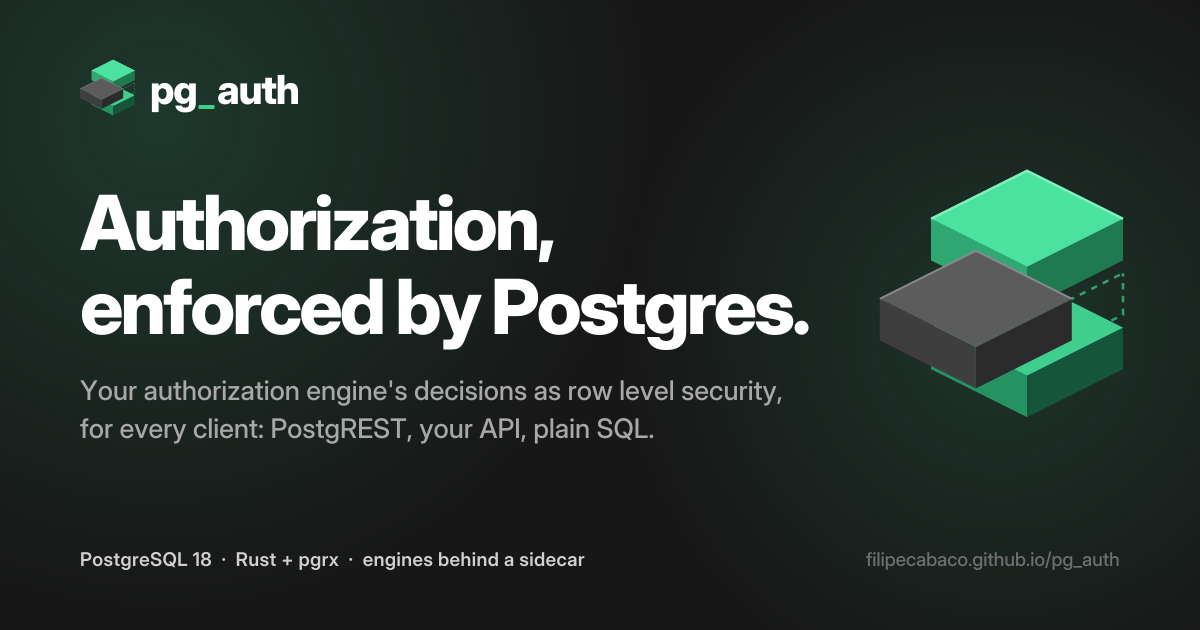
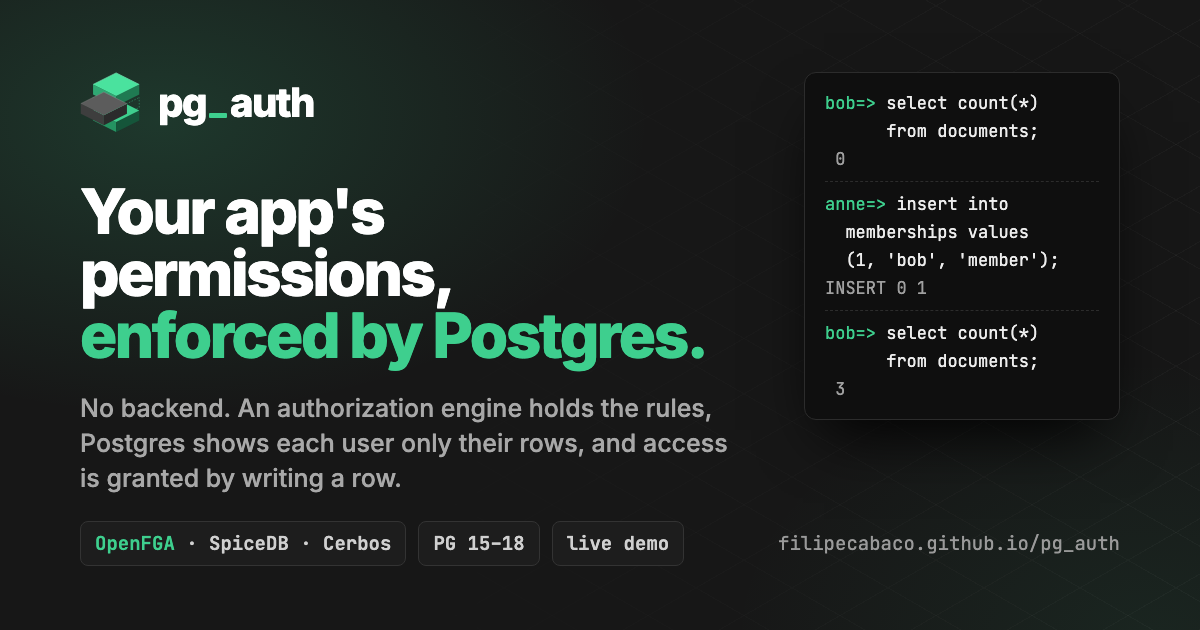
Social card in pg_redis's layout; the rules each engine reads, in the demo
- docs/assets/og.png re-rendered from scripts/og.html (mise run og): the
  headline, Anne and Bob's three steps, the engines; the image URL carries
  ?v=2 so unfurlers fetch the new one; site description and title updated
- the hero has a collapsed 'The rules, as <engine> reads them': the OpenFGA
  model, SpiceDB schema or Cerbos policy the demo loads, in the engine's own
  language, following the engine switcher; it says rules you already have
  work as they are, apart from OpenFGA conditions and SpiceDB caveats

diff --git a/scripts/og.html b/scripts/og.html
@@ -1,0 +1,104 @@
+<!doctype html>
+<!-- Source for docs/assets/og.png, the 1200x630 social card, in pg_redis's layout. Re-render with
+     `mise run og` after editing; the PNG is what link unfurlers fetch. -->
+<html>
+<head>
+<meta charset="utf-8">
+<link rel="preconnect" href="https://fonts.googleapis.com">
+<link href="https://fonts.googleapis.com/css2?family=Inter:wght@400;500;700;800&family=JetBrains+Mono:wght@400;600&display=block" rel="stylesheet">
+<style>
+  * { box-sizing: border-box; margin: 0; }
+  html, body { width: 1200px; height: 630px; }
+  body {
+    font-family: Inter, "Helvetica Neue", Arial, sans-serif;
+    color: #ededed;
+    background:
+      radial-gradient(700px 420px at 160px 120px, #3ecf8e2e, transparent 70%),
+      radial-gradient(600px 400px at 1150px 640px, #3ecf8e14, transparent 70%),
+      #171717;
+    position: relative;
+    overflow: hidden;
+  }
+  /* faint isometric grid, as on pg_redis's card */
+  body::before {
+    content: "";
+    position: absolute; inset: 0;
+    background-image:
+      repeating-linear-gradient(30deg, #ffffff07 0 1px, transparent 1px 48px),
+      repeating-linear-gradient(-30deg, #ffffff07 0 1px, transparent 1px 48px);
+    mask-image: linear-gradient(90deg, transparent 35%, #000 100%);
+  }
+  .card { position: absolute; inset: 72px 80px 64px; display: flex; flex-direction: column; }
+  .brand { display: flex; align-items: center; gap: 18px; }
+  .brand svg { width: 60px; height: 61px; }
+  .word { font-weight: 800; font-size: 40px; letter-spacing: -1.5px; color: #fff; }
+  .word i { display: inline-block; width: 18px; height: 5px; background: #3ecf8e; border-radius: 1px; margin: 0 3px -1px; font-style: normal; }
+  h1 {
+    margin-top: 48px;
+    font-size: 62px; line-height: 1; font-weight: 800; letter-spacing: -2.4px; color: #fff; max-width: 680px;
+  }
+  h1 span { color: #3ecf8e; }
+  p.lede { margin-top: 24px; font-size: 25px; line-height: 1.4; color: #a8a8a8; max-width: 660px; font-weight: 500; }
+  .foot { margin-top: auto; display: flex; align-items: center; gap: 12px; }
+  .chip {
+    font: 600 19px "JetBrains Mono", ui-monospace, monospace;
+    color: #d0d0d0; padding: 9px 14px; border: 1px solid #333; border-radius: 8px; background: #1d1d1d;
+  }
+  .chip b { color: #3ecf8e; font-weight: 600; }
+  .url { margin-left: auto; font: 400 19px "JetBrains Mono", ui-monospace, monospace; color: #9a9a9a; }
+
+  .term {
+    position: absolute; right: 80px; top: 72px; width: 316px;
+    font: 400 17px/1.65 "JetBrains Mono", ui-monospace, monospace;
+    font-variant-ligatures: none;
+    background: #0f0f0f; border: 1px solid #2c2c2c; border-radius: 12px; padding: 16px 20px;
+    box-shadow: 0 30px 60px -20px #000;
+  }
+  .term .sep { border-top: 1px dashed #2c2c2c; margin: 8px 0; }
+  .term .p { color: #3ecf8e; } .term .o { color: #a0a0a0; }
+</style>
+</head>
+<body>
+  <div class="term">
+    <div><span class="p">bob=&gt;</span> select count(*)</div>
+    <div>&nbsp;&nbsp;&nbsp;&nbsp;&nbsp;&nbsp;from documents;</div>
+    <div class="o">&nbsp;0</div>
+    <div class="sep"></div>
+    <div><span class="p">anne=&gt;</span> insert into</div>
+    <div>&nbsp;&nbsp;memberships values</div>
+    <div>&nbsp;&nbsp;(1, 'bob', 'member');</div>
+    <div class="o">INSERT 0 1</div>
+    <div class="sep"></div>
+    <div><span class="p">bob=&gt;</span> select count(*)</div>
+    <div>&nbsp;&nbsp;&nbsp;&nbsp;&nbsp;&nbsp;from documents;</div>
+    <div class="o">&nbsp;3</div>
+  </div>
+  <div class="card">
+    <div class="brand">
+      <svg viewBox="-34 191 156 158" aria-hidden="true">
+        <path d="M0 291 L60 321 L60 347 L0 317 Z" fill="#249361"/>
+        <path d="M60 321 L120 291 L120 317 L60 347 Z" fill="#15553A"/>
+        <path d="M0 291 L60 261 L120 291 L60 321 Z" fill="#3ECF8E"/>
+        <path d="M0 223 L60 253 L60 279 L0 249 Z" fill="#2FA873"/>
+        <path d="M60 253 L120 223 L120 249 L60 279 Z" fill="#1F7A52"/>
+        <path d="M0 223 L60 193 L120 223 L60 253 Z" fill="#4AE29E"/>
+        <path d="M0 223 L60 193 L120 223" fill="none" stroke="#7DF0BC" stroke-width="1.6" stroke-linejoin="round"/>
+        <path d="M0 257 L60 287 L120 257 M0 257 L0 283 L60 313 L120 283 L120 257" fill="none" stroke="#3ECF8E" stroke-opacity="0.7" stroke-width="1.6" stroke-dasharray="4 4" stroke-linejoin="round"/>
+        <path d="M-32 273 L28 303 L28 329 L-32 299 Z" fill="#3E3E3E"/>
+        <path d="M28 303 L88 273 L88 299 L28 329 Z" fill="#2B2B2B"/>
+        <path d="M-32 273 L28 243 L88 273 L28 303 Z" fill="#5C5C5C"/>
+        <path d="M-32 273 L28 243 L88 273" fill="none" stroke="#8A8A8A" stroke-width="1.2" stroke-linejoin="round"/>
+      </svg>
+      <span class="word">pg<i></i>auth</span>
+    </div>
+    <h1>Your app's permissions,<br><span>enforced by Postgres.</span></h1>
+    <p class="lede">No backend. An authorization engine holds the rules, Postgres shows each user only their rows, and access is granted by writing a row.</p>
+    <div class="foot">
+      <span class="chip"><b>OpenFGA</b> · SpiceDB · Cerbos</span>
+      <span class="chip">PG 15–18</span>
+      <span class="chip">live demo</span>
+      <span class="url">filipecabaco.github.io/pg_auth</span>
+    </div>
+  </div>
+</body>
+</html>

diff --git a/overrides/home.html b/overrides/home.html
@@ -32,6 +32,64 @@
           them. Anne is the admin of org 1, which owns three documents. Bob is in no org yet.</p>
         <p data-for="attributes">The rule: everyone reads published documents and their own drafts, and only the owner
           edits. Anne owns three documents, one of them published.</p>
+        {#- The rules each engine reads, exactly as docker/demo loads them (models/model.fga,
+            models/schema.zed, cerbos/document.yaml): change them there and here together -#}
+        <details class="pa-rules">
+          <summary>The rules, as <span data-engine-name>OpenFGA</span> reads them</summary>
+          <p>Written in the engine's own language; pg_auth does not translate them. Rules you already
+            have work as they are, apart from OpenFGA conditions and SpiceDB caveats: those need context
+            pg_auth does not send yet, so they deny.</p>
+<pre data-engine-show="openfga"><code>model
+  schema 1.1
+type user
+type org
+  relations
+    define admin: [user]
+    define member: [user]
+    define can_manage: admin
+    define can_read: member or admin
+type document
+  relations
+    define org: [org]
+    define shared_with: [user]
+    define viewer: shared_with or can_read from org
+    define editor: can_manage from org</code></pre>
+<pre data-engine-show="spicedb"><code>definition user {}
+
+definition org {
+    relation admin: user
+    relation member: user
+    permission can_manage = admin
+    permission can_read = member + admin
+}
+
+definition document {
+    relation org: org
+    relation shared_with: user
+    permission viewer = shared_with + org-&gt;can_read
+    permission editor = org-&gt;can_manage
+}</code></pre>
+<pre data-engine-show="cerbos"><code>apiVersion: api.cerbos.dev/v1
+resourcePolicy:
+  version: default
+  resource: document
+  rules:
+    - actions: ["read"]
+      effect: EFFECT_ALLOW
+      roles: ["authenticated"]
+      condition:
+        match:
+          any:
+            of:
+              - expr: request.resource.attr.owner == request.principal.id
+              - expr: request.resource.attr.status == "published"
+    - actions: ["update"]
+      effect: EFFECT_ALLOW
+      roles: ["authenticated"]
+      condition:
+        match:
+          expr: request.resource.attr.owner == request.principal.id</code></pre>
+        </details>
       </div>
       <div class="pa-actions">
         <button type="button" class="pa-btn pa-btn--primary" data-boot>

diff --git a/docs/stylesheets/home.css b/docs/stylesheets/home.css
@@ -1034,3 +1034,57 @@
     white-space: normal;
   }
 }
+
+/* The rules each engine reads, collapsed under the plain-words version; only the selected
+   engine's are shown */
+.pa-rules {
+  margin: 0 0 0.6rem;
+}
+
+.pa-rules summary {
+  display: block;
+  font-size: 0.66rem;
+  font-weight: 600;
+  color: #d0d0d0;
+  cursor: pointer;
+  list-style: none;
+}
+
+.pa-rules summary::-webkit-details-marker {
+  display: none;
+}
+
+.pa-rules summary::before {
+  content: "";
+  display: inline-block;
+  margin: 0 0.5rem 0.1em 0.1rem;
+  width: 0.4rem;
+  height: 0.4rem;
+  border-right: 1.5px solid var(--pa-green);
+  border-bottom: 1.5px solid var(--pa-green);
+  transform: rotate(-45deg);
+  transition: transform 200ms var(--pa-ease);
+}
+
+.pa-rules[open] summary::before {
+  transform: rotate(45deg);
+}
+
+.pa-rules summary:hover {
+  color: #fff;
+}
+
+.pa-rules p {
+  margin: 0.5rem 0 0.45rem;
+}
+
+.pa-rules pre {
+  max-height: 22rem;
+  overflow: auto;
+}
+
+[data-engine="openfga"] [data-engine-show]:not([data-engine-show="openfga"]),
+[data-engine="spicedb"] [data-engine-show]:not([data-engine-show="spicedb"]),
+[data-engine="cerbos"] [data-engine-show]:not([data-engine-show="cerbos"]) {
+  display: none;
+}

diff --git a/overrides/main.html b/overrides/main.html
@@ -9,7 +9,8 @@
         else config.site_name ~ " — authorization, enforced by Postgres") -%}
   {%- set og_description = page.meta.description if page and page.meta and page.meta.description
         else config.site_description -%}
-  {%- set og_image = config.site_url ~ "assets/og.png" -%}
+  {#- bump ?v= when og.png changes: unfurlers (Slack, X) cache the image by URL -#}
+  {%- set og_image = config.site_url ~ "assets/og.png?v=2" -%}
   <meta property="og:type" content="website">
   <meta property="og:site_name" content="{{ config.site_name }}">
   <meta property="og:title" content="{{ og_title }}">
@@ -19,7 +20,7 @@
   <meta property="og:image:type" content="image/png">
   <meta property="og:image:width" content="1200">
   <meta property="og:image:height" content="630">
-  <meta property="og:image:alt" content="pg_auth: an authorization engine's decisions enforced by PostgreSQL">
+  <meta property="og:image:alt" content="pg_auth: your app's permissions, enforced by Postgres">
   <meta name="twitter:card" content="summary_large_image">
   <meta name="twitter:title" content="{{ og_title }}">
   <meta name="twitter:description" content="{{ og_description }}">

diff --git a/docs/index.md b/docs/index.md
@@ -1,6 +1,6 @@
 ---
 template: home.html
-title: pg_auth — authorization, enforced by Postgres
+title: pg_auth — your app's permissions, enforced by Postgres
 hide:
   - navigation
   - toc
